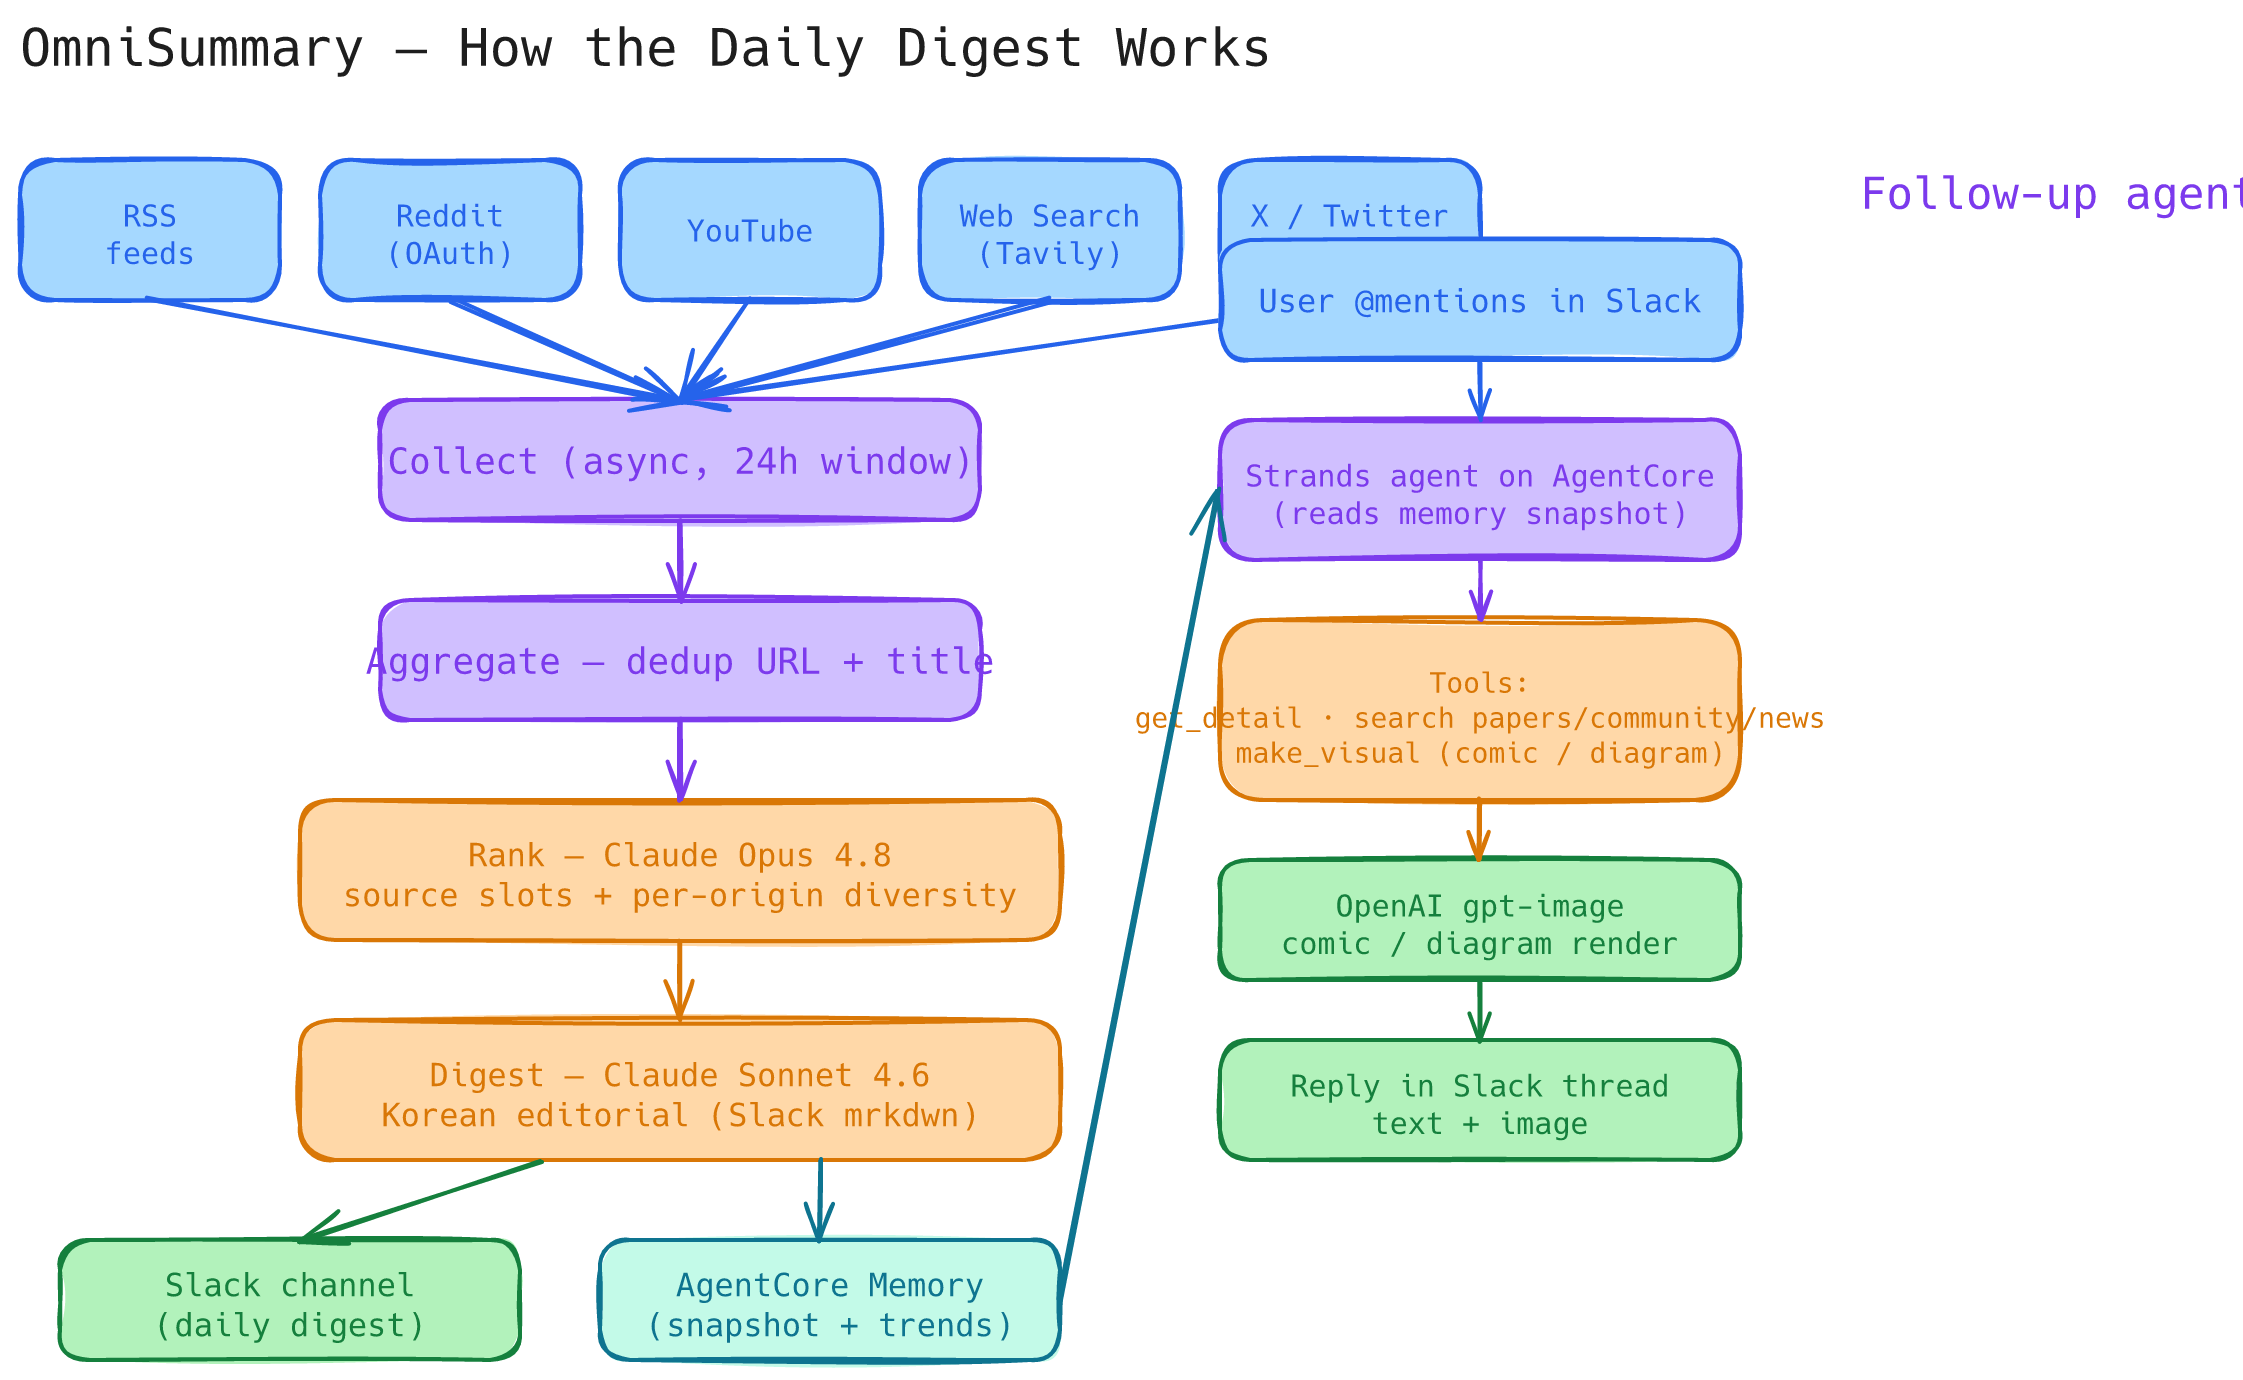
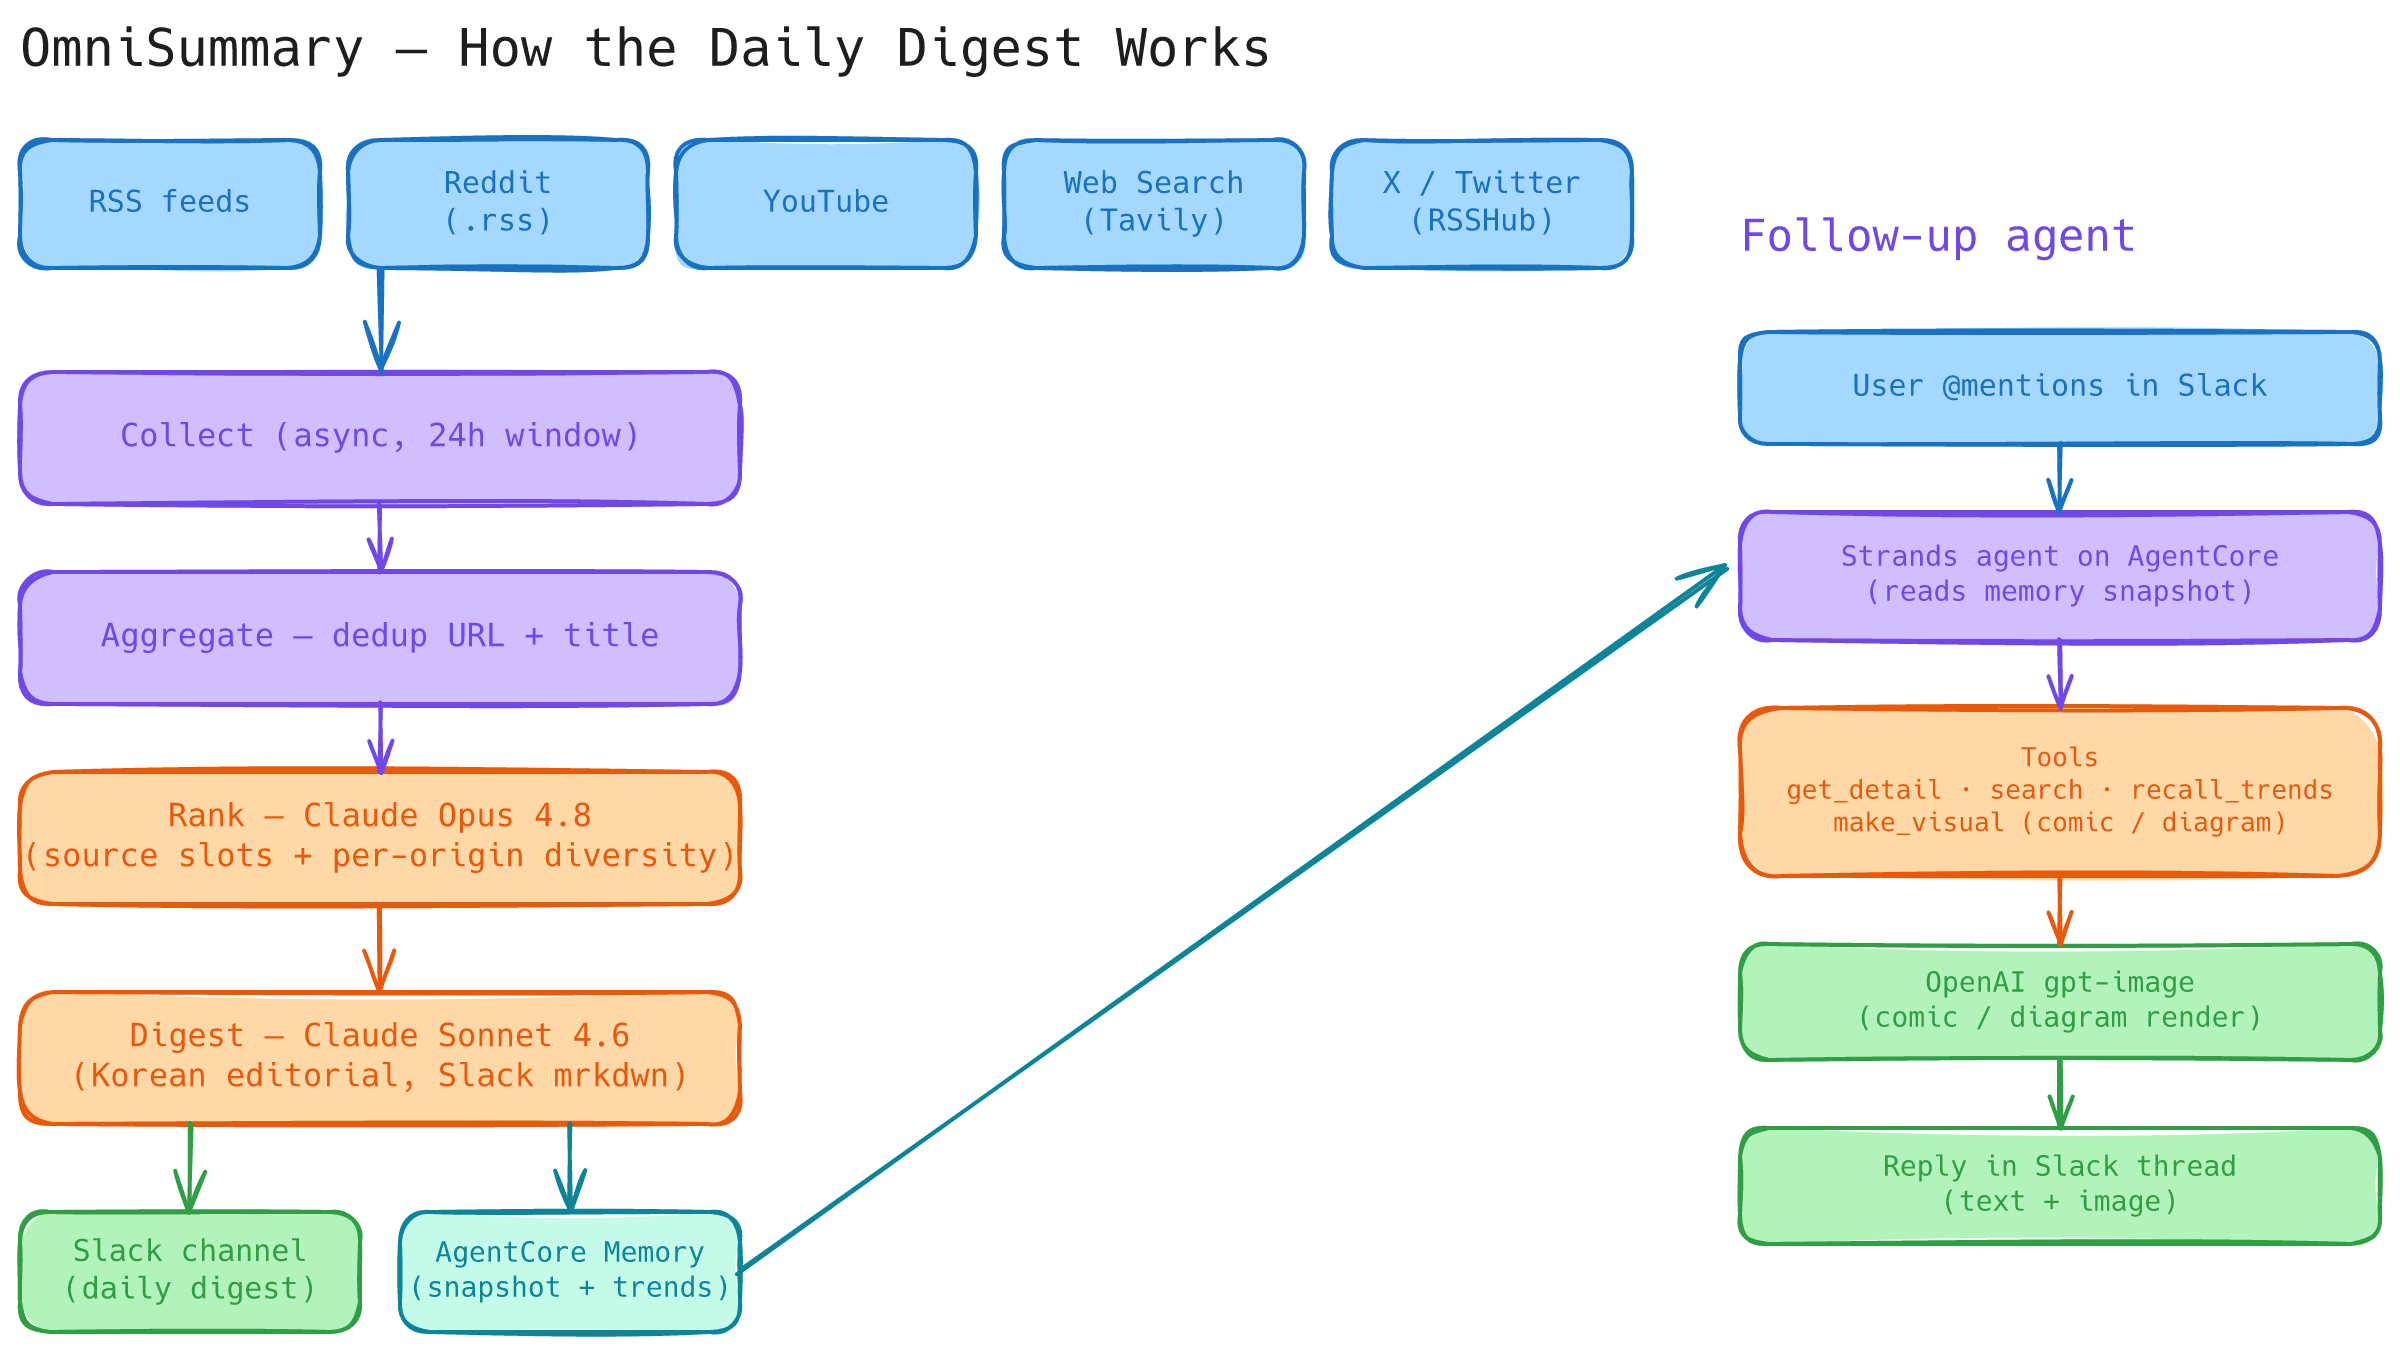
Polish diagrams + doc/config consistency cleanup
Diagrams (per review feedback):
- concept-pipeline (Excalidraw): rebuilt with hand-drawn Virgil font, wider boxes
  so no text overflows, clean separated left-pipeline / right-agent spines, no
  overlapping lines, Reddit labelled (.rss). Rendered via resvg with fontDirs.
- architecture (draw.io): fix SNS icon (correct messaging-category color), restore
  full SSM label (was clipped) with its own box, distinct AWS category colors for
  WAF (red) / API Gateway (purple) / CloudWatch (pink). Re-exported PNG.

Doc/config consistency (post-OAuth-removal drift):
- .env.template: rebuilt to match real env (SLACK_APP_TOKEN, YOUTUBE/OPENAI/
  ALERT/CLOUDFLARE/S3_SYNC), drop REDDIT_CLIENT_*; .env drops Reddit creds.
- config-template.yaml ranking model 4-6 -> opus-4-8 (matches config.yaml).
- tech-doc: resolve_secret now 'OpenAI only' (Reddit no longer uses it); testing
  line drops respx/OAuth, adds slack-handler tests.
- README: add SLACK_APP_TOKEN to env list.
- MEMORY.md: Reddit .rss (not OAuth), add recall_trends tool.
- Remove dead main.run_collectors (non-health variant) + unused import.

183 tests pass, ruff/black/mypy clean, cdk synth ok.

diff --git a/main.py b/main.py
@@ -15,7 +15,6 @@ from collectors import (
     WebSearchCollector,
     YouTubeCollector,
 )
-from collectors.base import gather_collector_results
 from output import send_digest_to_slack
 from pipeline import ContentAggregator, ContentRanker, DigestGenerator, TrendTracker
 from shared import (
@@ -70,18 +69,6 @@ def _build_collector_tasks(
         labels.append(source_name)
 
     return tasks, labels
-
-
-async def run_collectors(
-    config: Config,
-    llm_factory: BedrockLanguageModelFactory,
-    sources: list[str] | None = None,
-) -> list[CollectedItem]:
-    tasks, labels = _build_collector_tasks(config, llm_factory, sources)
-    if not tasks:
-        logger.warning("No active collectors")
-        return []
-    return await gather_collector_results(tasks, labels=labels)
 
 
 async def run_collectors_with_health(

diff --git a/assets/tech-doc.md b/assets/tech-doc.md
@@ -104,7 +104,7 @@ Runtime 위의 Strands)는 다이제스트 항목에 대한 질문에 답하고 
 ID는 `shared/constants.py`(`LanguageModelId`)에 열거되며, 최신은 Opus 4.8 / Sonnet 4.6입니다.
 
 `resolve_secret(env_var, ssm_suffix)`는 env 우선, 그다음 SSM(`/{project}/{stage}/{suffix}`,
-SecureString 복호화) 순으로 시크릿을 해석하는 공유 헬퍼입니다. Reddit 자격증명과 OpenAI 키가 이를 사용합니다.
+SecureString 복호화) 순으로 시크릿을 해석하는 공유 헬퍼입니다. OpenAI 키(`make_visual`)가 이를 사용합니다.
 
 **프롬프트 캐싱.** Bedrock 프롬프트 캐싱은 Claude 기준 캐시 가능 프리픽스 최소치가 ~1024 토큰입니다.
 효과가 있는 곳에만 적용했습니다: 후속 **에이전트**는 ~1.7K 토큰 시스템 프롬프트 + 도구 스키마가 매 ReAct
@@ -202,7 +202,8 @@ IpReputation), EventBridge 일일 크론(설정 기반 시/분), AgentCore Runti
 
 ## 13. 테스트 & CI/CD
 
-`tests/`(pytest, `asyncio_mode=auto`): 수집기(respx로 모킹한 HTTP/OAuth), 집계기, 랭커 파싱 + 슬롯/origin-cap
+`tests/`(pytest, `asyncio_mode=auto`): 수집기(모킹한 HTTP/feedparser), Slack 이벤트 핸들러(서명 검증/중복 제거),
+집계기, 랭커 파싱 + 슬롯/origin-cap
 로직, 헬스 리포트, logger, 메모리 스토어(로컬 + AgentCore 모킹), 다이제스트 핸들러 알림, 에이전트 도구,
 visuals, trend_tracker(trim/evidence-cap/archived-merge), 그리고 CDK assertion(`aws-cdk.assertions`로 두
 스택 검증). 커버리지 게이트 55%.

diff --git a/README.md b/README.md
@@ -89,6 +89,7 @@ Required environment variables (`.env`):
 
 ```
 SLACK_BOT_TOKEN=xoxb-...
+SLACK_APP_TOKEN=xapp-...           # Socket Mode (slack_agent.py)
 SLACK_CHANNEL_ID=C...
 TAVILY_API_KEY=tvly-...
 YOUTUBE_API_KEY=AIza...            # Optional, falls back to RSS